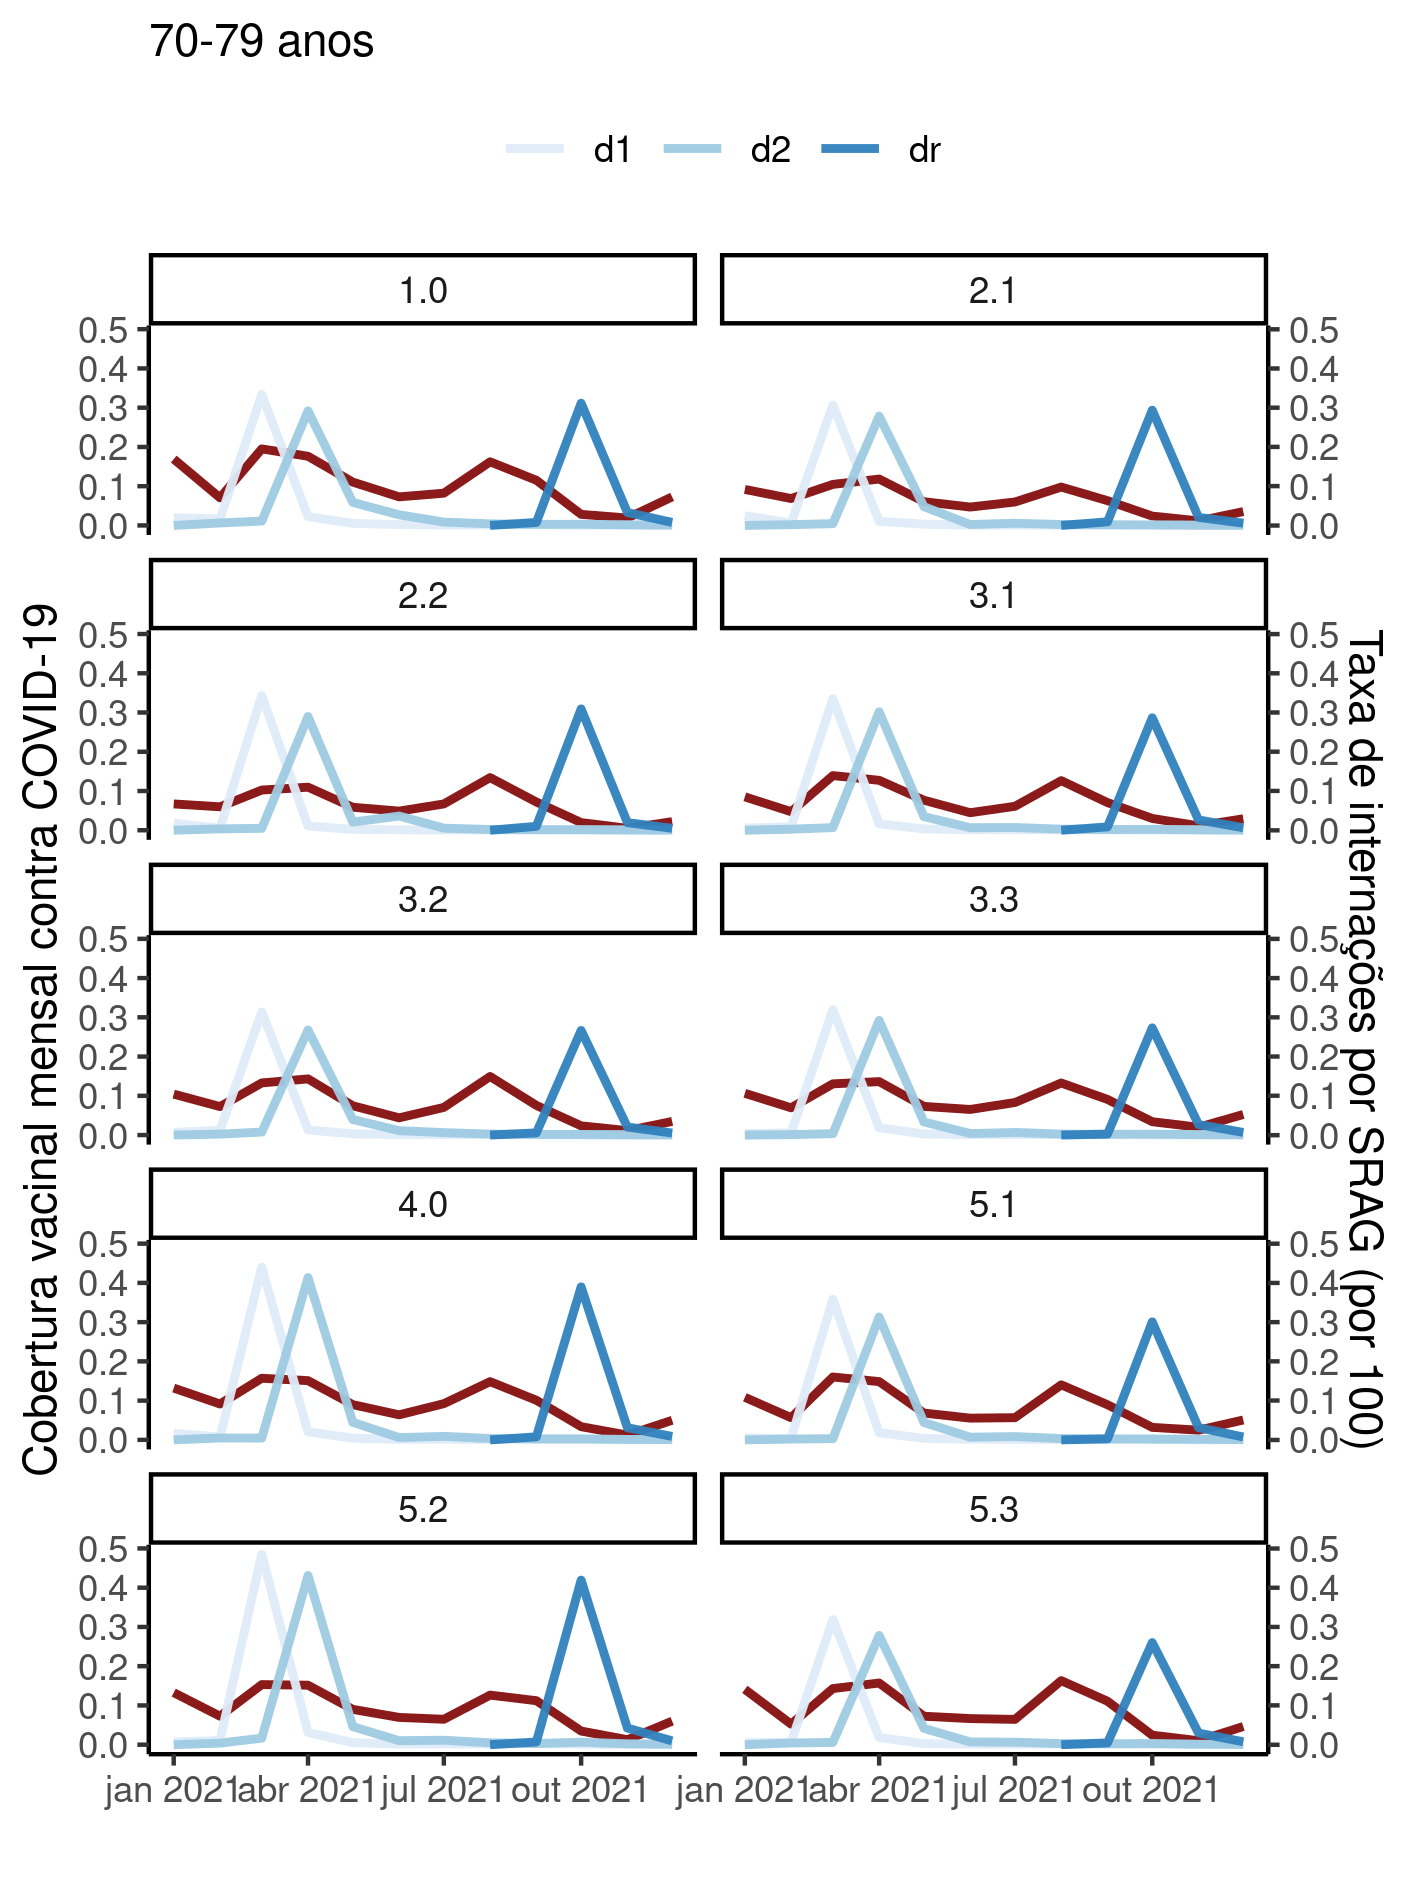
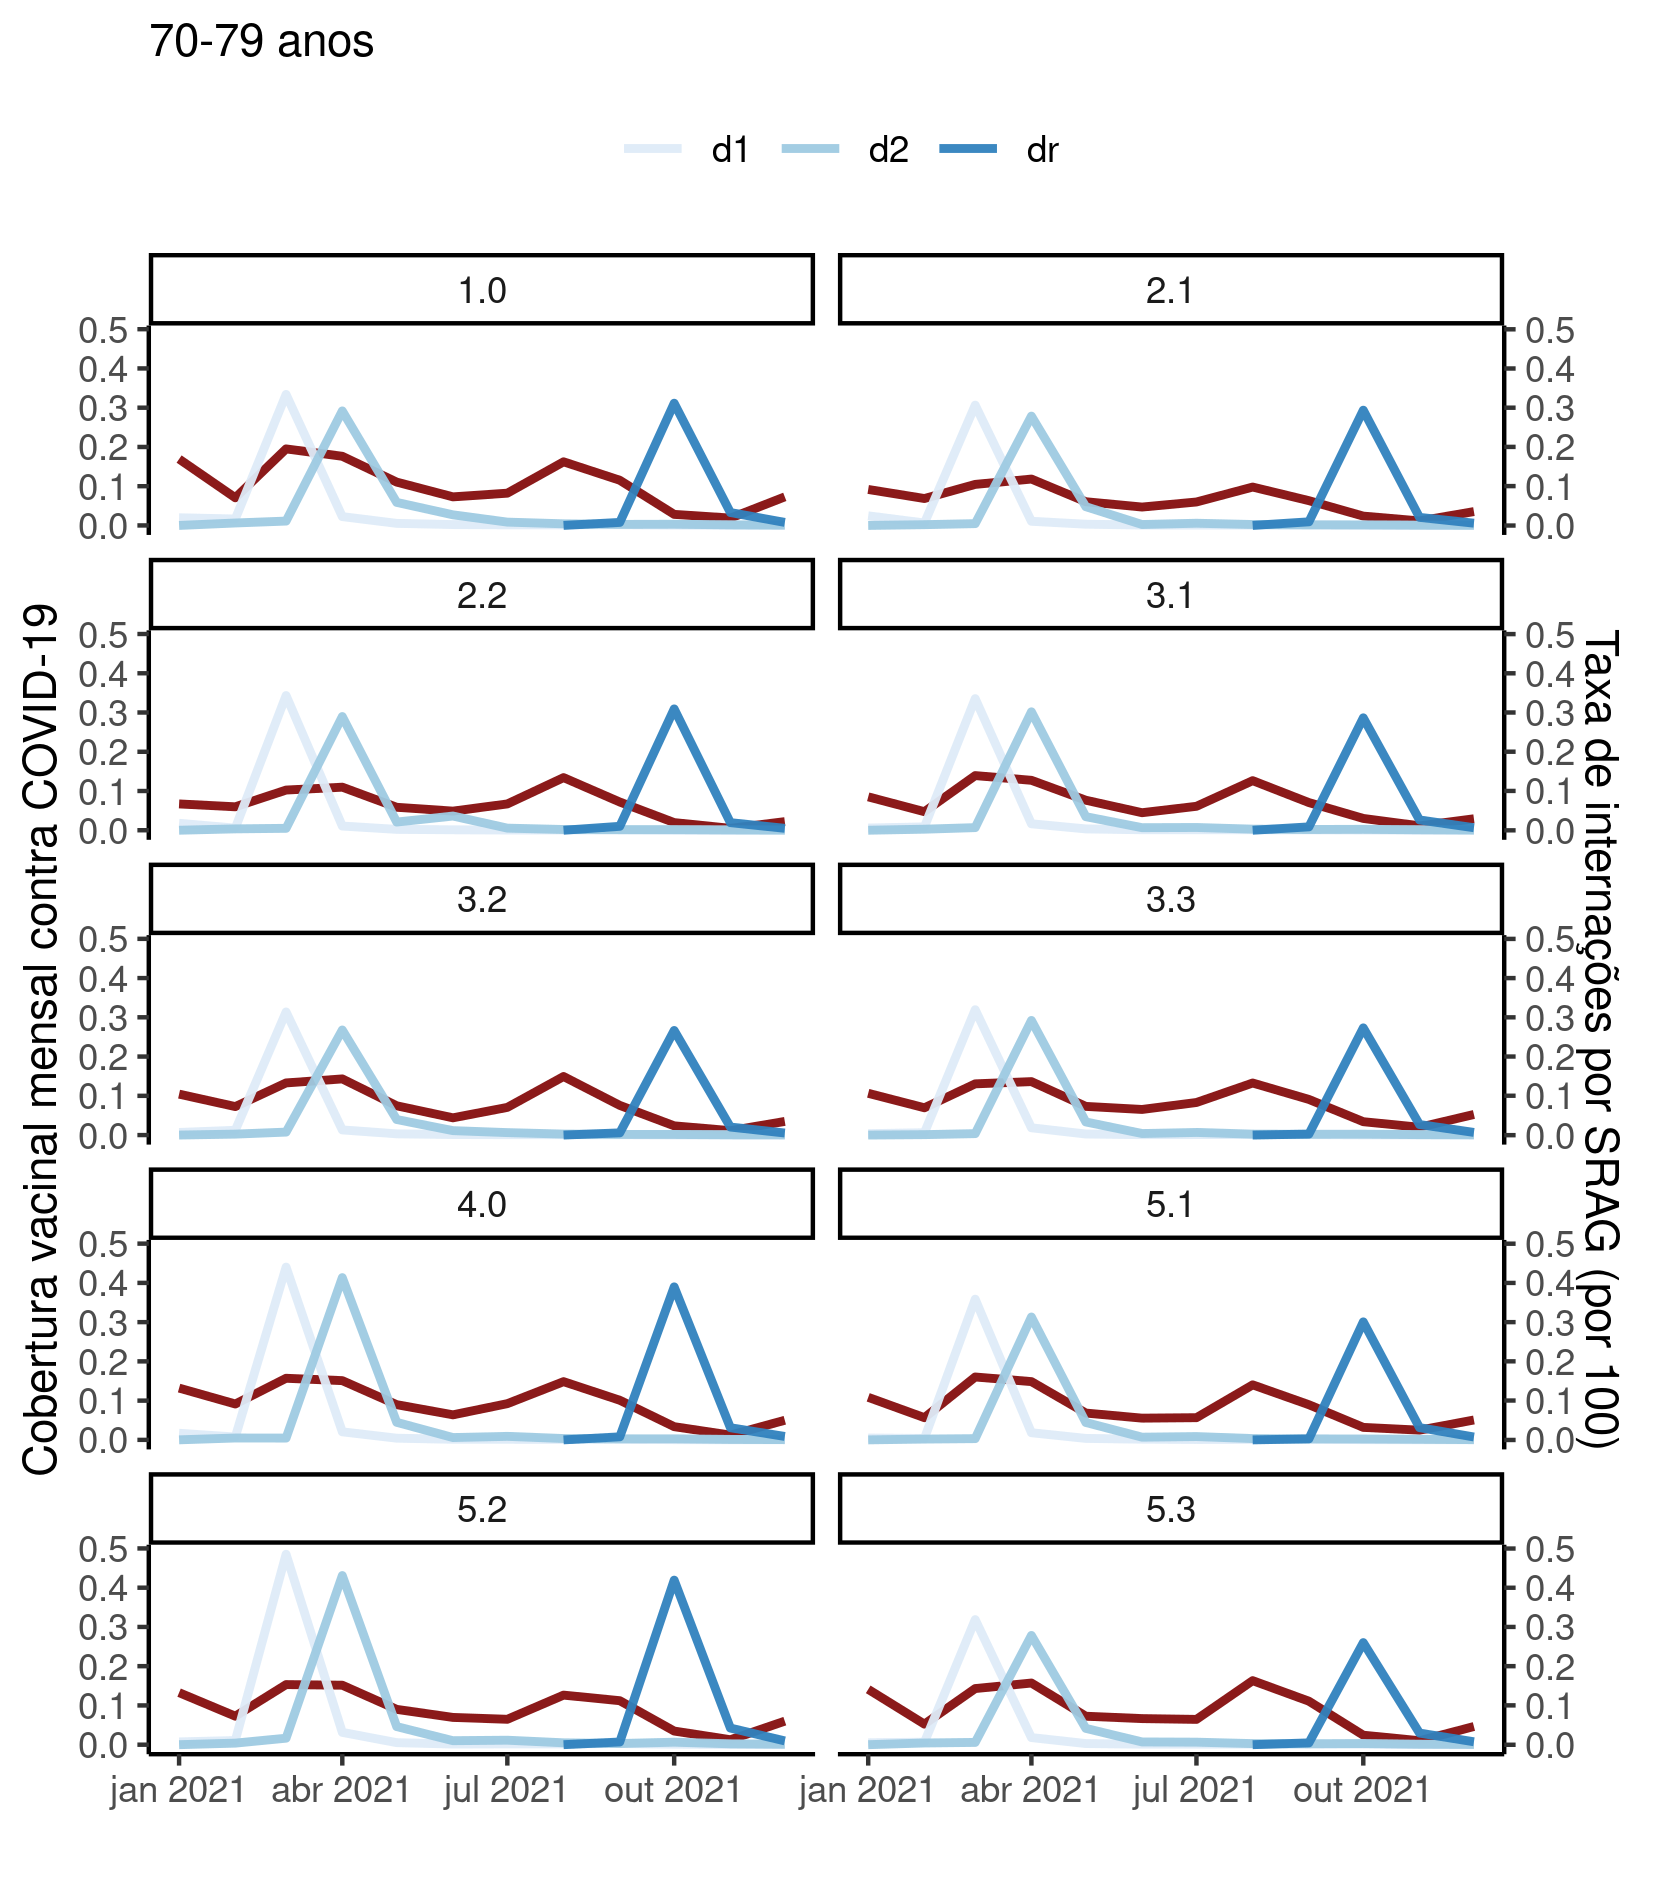
figuras redimensionadas (agora meses "cabem" no eixo)

diff --git a/report/SAR-2022-016-JB-v02.md b/report/SAR-2022-016-JB-v02.md
@@ -199,7 +199,7 @@ A figura 1 mostra as tendências de internações por SRAG nas dez AP ao longo d
 Observa-se duas ondas distintas de internações afetando similarmente as três faixas etárias consideradas no estudo, a primeira entre os meses de março e abril e a segunda entre os meses de agosto e setembro.
 
 <div class="figure">
-<img src="../figures/int.png" alt="**Figura 1** Taxas de internações de idosos por SRAG em 2021 nas AP do município do Rio de Janeiro, por 100 habitantes." width="1417" />
+<img src="../figures/int.png" alt="**Figura 1** Taxas de internações de idosos por SRAG em 2021 nas AP do município do Rio de Janeiro, por 100 habitantes." width="1653" />
 <p class="caption">**Figura 1** Taxas de internações de idosos por SRAG em 2021 nas AP do município do Rio de Janeiro, por 100 habitantes.</p>
 </div>
 
@@ -239,7 +239,7 @@ da dose de reforço
 entre outubro e novembro.
 
 <div class="figure">
-<img src="../figures/f1.png" alt="**Figura 2** Cobertura vacinal mensal contra COVID-19 e taxa de internação de idosos em 2021 60-69 nas AP do município do Rio de Janeiro." width="1417" />
+<img src="../figures/f1.png" alt="**Figura 2** Cobertura vacinal mensal contra COVID-19 e taxa de internação de idosos em 2021 60-69 nas AP do município do Rio de Janeiro." width="1653" />
 <p class="caption">**Figura 2** Cobertura vacinal mensal contra COVID-19 e taxa de internação de idosos em 2021 60-69 nas AP do município do Rio de Janeiro.</p>
 </div>
 
@@ -262,7 +262,7 @@ da dose de reforço
 em outubro.
 
 <div class="figure">
-<img src="../figures/f2.png" alt="**Figura 3** Cobertura vacinal mensal contra COVID-19 e taxa de internação de idosos em 2021 70-79 nas AP do município do Rio de Janeiro." width="1417" />
+<img src="../figures/f2.png" alt="**Figura 3** Cobertura vacinal mensal contra COVID-19 e taxa de internação de idosos em 2021 70-79 nas AP do município do Rio de Janeiro." width="1653" />
 <p class="caption">**Figura 3** Cobertura vacinal mensal contra COVID-19 e taxa de internação de idosos em 2021 70-79 nas AP do município do Rio de Janeiro.</p>
 </div>
 
@@ -285,7 +285,7 @@ e da dose de reforço
 em setembro.
 
 <div class="figure">
-<img src="../figures/f3.png" alt="**Figura 4** Cobertura vacinal mensal contra COVID-19 e taxa de internação de idosos em 2021 80 anos ou mais nas AP do município do Rio de Janeiro." width="1417" />
+<img src="../figures/f3.png" alt="**Figura 4** Cobertura vacinal mensal contra COVID-19 e taxa de internação de idosos em 2021 80 anos ou mais nas AP do município do Rio de Janeiro." width="1653" />
 <p class="caption">**Figura 4** Cobertura vacinal mensal contra COVID-19 e taxa de internação de idosos em 2021 80 anos ou mais nas AP do município do Rio de Janeiro.</p>
 </div>
 
@@ -375,7 +375,7 @@ Recomenda-se que todos os estudos observacionais sigam o guideline STROBE (von E
 As figuras A1 e A2 mostram os histogramas das duas principais variáveis da análise.
 
 <div class="figure">
-<img src="../figures/hist_int.png" alt="**Figura A1** Histograma das taxas mensais de internação por SRAG, por AP." width="1417" />
+<img src="../figures/hist_int.png" alt="**Figura A1** Histograma das taxas mensais de internação por SRAG, por AP." width="1653" />
 <p class="caption">**Figura A1** Histograma das taxas mensais de internação por SRAG, por AP.</p>
 </div>
 
@@ -387,7 +387,7 @@ Isso indica baixa consistência com que este esforço foi aplicado com sucesso n
 Este fato pode ser observado nas figuras 2-4, onde o esforço vacinal ocorreu em ondas distintas, ao invés de um esforço constante ao longo do período.
 
 <div class="figure">
-<img src="../figures/hist_vac.png" alt="**Figura A2** Histograma da cobertura vacinal mensal contra COVID-19, por AP." width="1417" />
+<img src="../figures/hist_vac.png" alt="**Figura A2** Histograma da cobertura vacinal mensal contra COVID-19, por AP." width="1653" />
 <p class="caption">**Figura A2** Histograma da cobertura vacinal mensal contra COVID-19, por AP.</p>
 </div>
 
